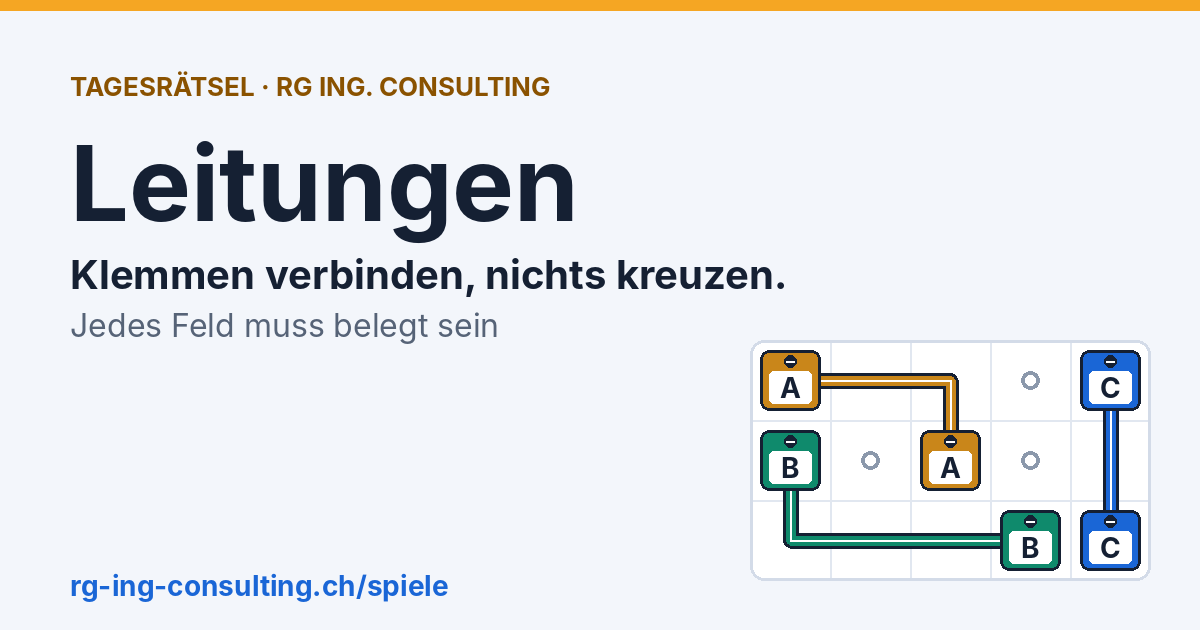
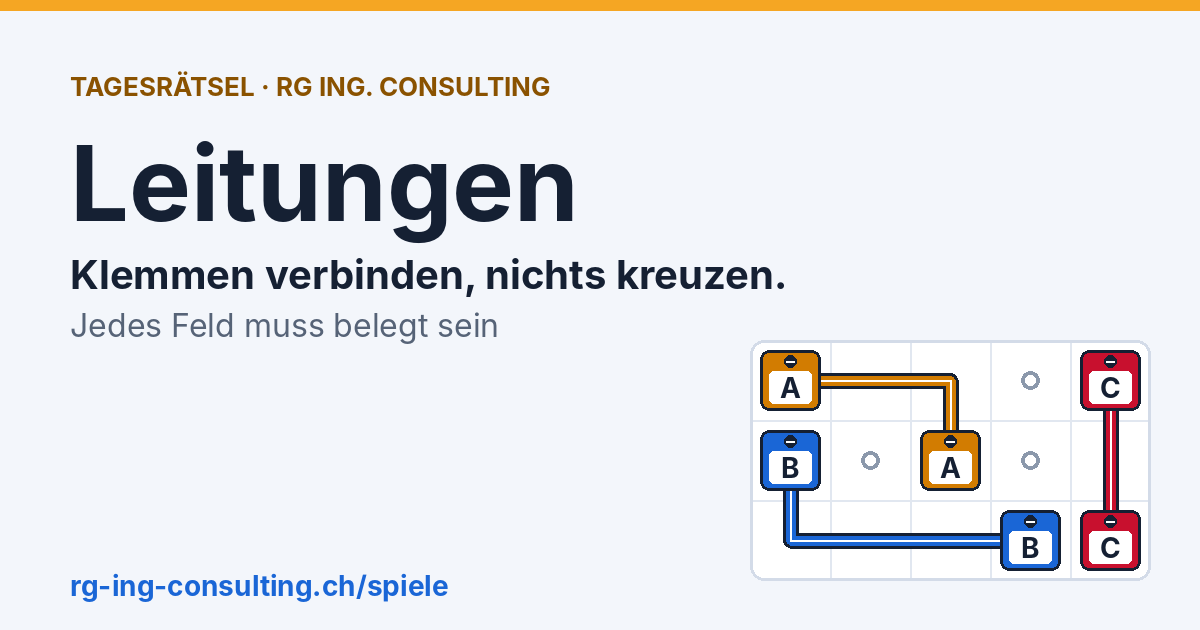
Rätsel: geprüfte Fassung des hellen Erscheinungsbilds (#6)
Feinschliff nach unabhängiger Prüfung: Kontraste, Farben bei Rot-Grün-Schwäche,
lesbare Beschriftung im Ergebnisfenster, keine springenden Knöpfe; Symbol und
Vorschaubild von Leitungen in den neuen Aderfarben.

Claude-Session: https://claude.ai/code/session_017yagkwgKSD2XjrwPwrEokH

Changed region(s): [[0.6167, 0.5429, 0.9558, 0.9048], [0.8942, 0.5429, 0.9558, 0.7841]]

diff --git a/raetsel/rasterweg.html b/raetsel/rasterweg.html
@@ -25,7 +25,7 @@
    und auf Hellgrün 4.6, Markenrand Nacht auf Weiss 16.3, Zahl auf Gold 8.1, Zahl Weiss auf Nacht 16.3, Rasterpunkte auf Weiss 6.1,
    Weiss auf Rot 5.5, Hinweis Grün auf Hellgrün 4.6, Hinweis Goldtext auf Hellgold 5.8. */
 #spiel{gap:12px}
-.rw-status{width:100%;display:grid;grid-template-columns:1fr auto 1fr;align-items:center;gap:8px;padding:0 2px;font-size:.95rem;font-variant-numeric:tabular-nums}
+.rw-status{width:100%;min-height:28px;display:grid;grid-template-columns:1fr auto 1fr;align-items:center;gap:8px;padding:0 2px;font-size:.95rem;font-variant-numeric:tabular-nums}   /* feste Höhe: das Brett springt beim Lösen nicht */
 .rw-status>span{white-space:nowrap}
 #rw-fortschritt{font-weight:800}
 #rw-naechste{display:inline-flex;align-items:center;gap:7px;color:var(--rg-leise);font-size:.84rem}
@@ -59,17 +59,18 @@
   font-weight:800;line-height:1;font-size:1.15rem;font-size:calc(34cqw / var(--n));font-variant-numeric:tabular-nums;pointer-events:none;
   box-shadow:var(--rg-schatten-klein);transition:background .15s,color .15s,border-color .15s,transform .15s}
 .rw-feld.ziel .rw-zahl{box-shadow:0 0 0 2.5px var(--rg-flaeche),0 0 0 5px var(--rg-nacht)}
+/* Die Ringe bleiben im eigenen Feld (Luft zwischen Marke und Feldrand = 0.5em der Marke), sonst schneidet der Brettrand sie ab. */
 .rw-feld.dran .rw-zahl{background:var(--rg-gold);border-width:3.5px;box-shadow:0 0 0 4px rgba(245,166,35,.4);animation:rw-puls 1.6s ease-in-out infinite}
-.rw-feld.dran.ziel .rw-zahl{box-shadow:0 0 0 2.5px var(--rg-flaeche),0 0 0 5px var(--rg-nacht),0 0 0 9px rgba(245,166,35,.4);animation-name:rw-puls-ziel}
+.rw-feld.dran.ziel .rw-zahl{box-shadow:0 0 0 2.5px var(--rg-flaeche),0 0 0 5px var(--rg-nacht),0 0 0 min(9px,.48em) rgba(245,166,35,.5);animation-name:rw-puls-ziel}
 .rw-feld.besucht .rw-zahl{background:var(--rg-nacht);color:#fff;box-shadow:0 0 0 2.5px #fff;transform:scale(1.04)}
 .rw-feld.besucht.ziel .rw-zahl{box-shadow:0 0 0 2.5px #fff,0 0 0 5px var(--rg-nacht),0 0 0 7.5px #fff}
 /* Abgelehnter Zug: roter Rahmen und rote Marke mit ✕ */
-.rw-feld.nein{animation:rw-ruck .34s;background:rgba(194,53,43,.14);box-shadow:inset 0 0 0 3px var(--rg-rot);border-radius:8px;z-index:1}
+.rw-feld.nein{animation:rw-ruck .34s;background:rgba(194,53,43,.14);box-shadow:inset 0 0 0 3px var(--rg-rot);border-radius:9px;z-index:1}
 .rw-feld.nein::after{content:"✕";position:absolute;top:3px;right:3px;display:grid;place-items:center;width:18px;height:18px;border-radius:50%;background:var(--rg-rot);color:#fff;
   font-size:.66rem;font-weight:800;line-height:1;box-shadow:0 0 0 1.5px #fff}
-@keyframes rw-puls{0%,100%{box-shadow:0 0 0 4px rgba(245,166,35,.4),0 0 0 4px rgba(245,166,35,.5)}60%{box-shadow:0 0 0 4px rgba(245,166,35,.4),0 0 0 11px rgba(245,166,35,0)}}
-@keyframes rw-puls-ziel{0%,100%{box-shadow:0 0 0 2.5px var(--rg-flaeche),0 0 0 5px var(--rg-nacht),0 0 0 9px rgba(245,166,35,.4),0 0 0 9px rgba(245,166,35,.5)}
-  60%{box-shadow:0 0 0 2.5px var(--rg-flaeche),0 0 0 5px var(--rg-nacht),0 0 0 9px rgba(245,166,35,.4),0 0 0 15px rgba(245,166,35,0)}}
+@keyframes rw-puls{0%,100%{box-shadow:0 0 0 4px rgba(245,166,35,.4),0 0 0 4px rgba(245,166,35,.5)}60%{box-shadow:0 0 0 4px rgba(245,166,35,.4),0 0 0 min(11px,.48em) rgba(245,166,35,0)}}
+@keyframes rw-puls-ziel{0%,100%{box-shadow:0 0 0 2.5px var(--rg-flaeche),0 0 0 5px var(--rg-nacht),0 0 0 min(9px,.48em) rgba(245,166,35,.85)}
+  60%{box-shadow:0 0 0 2.5px var(--rg-flaeche),0 0 0 5px var(--rg-nacht),0 0 0 min(9px,.48em) rgba(245,166,35,.35)}}
 @keyframes rw-ruck{0%,100%{transform:translateX(0)}25%{transform:translateX(-4px)}75%{transform:translateX(4px)}}
 
 /* Gelöst: Band, Felder, Rahmen und Balken in Grün */
@@ -84,13 +85,14 @@
 #spiel:has(.rw-brett.geloest) #rw-naechste{color:var(--rg-gruen);font-weight:800}
 @keyframes rw-glanz{0%{opacity:.75;stroke-dashoffset:1}80%{opacity:.75}100%{opacity:0;stroke-dashoffset:0}}
 
-.rw-hinweis{margin:0;min-height:2.7em;padding:4px 14px;border-radius:12px;display:grid;place-items:center;text-align:center;font-size:.88rem;color:var(--rg-leise);text-wrap:balance}
+/* Die Hinweiszeile hält immer Platz für zwei Zeilen (2 × 1.45em plus Innenabstand): die Knöpfe darunter bleiben an ihrem Ort. */
+.rw-hinweis{margin:0;min-height:calc(2.9em + 8px);padding:4px 14px;border-radius:12px;display:grid;place-items:center;text-align:center;font-size:.88rem;color:var(--rg-leise);text-wrap:balance}
 .rw-hinweis.gut{color:var(--rg-gruen);font-weight:700;background:var(--rg-gruen-hell)}
 .rw-hinweis.achtung{color:var(--rg-gold-text);font-weight:700;background:var(--rg-gold-hell);box-shadow:inset 0 0 0 1px rgba(245,166,35,.6)}
 .rw-knoepfe{width:100%;gap:10px}
 .rw-knoepfe .rg-knopf{flex:1 1 130px;max-width:230px;white-space:nowrap;touch-action:manipulation}
 .rw-knoepfe .rg-knopf[hidden]{display:none}
-@media(max-width:350px){.rw-status{font-size:.84rem}#rw-naechste{font-size:.76rem;gap:5px}#rw-naechste b{min-width:26px;height:26px}.rw-knoepfe .rg-knopf{padding:10px 8px;font-size:.84rem}}
+@media(max-width:350px){.rw-status{min-height:26px;font-size:.84rem}#rw-naechste{font-size:.76rem;gap:5px}#rw-naechste b{min-width:26px;height:26px}.rw-knoepfe .rg-knopf{padding:10px 8px;font-size:.84rem}}
 @media(max-height:620px){#spiel{gap:10px}.rw-hinweis{min-height:1.4em}}
 /* Meldung so breit wie ihr Text (höchstens 90vw), Kennzahlen im Ergebnisfenster einzeilig */
 .rg-toast{width:max-content}

diff --git a/raetsel/tageswort.html b/raetsel/tageswort.html
@@ -23,7 +23,8 @@
    Drei Zustände, immer Farbe UND Zeichen: Treffer ● (Blau gefüllt, weisser Buchstabe), Dabei ◐ (helles Gold mit Gold-Rahmen),
    Fehlt ○ (helle, zurückgenommene Fläche mit gedämpftem Buchstaben).
    Nachgerechnete Kontraste (WCAG): Weiss auf --rg-blau 5.4:1 · --rg-text auf --rg-gold-hell 14.9:1 · Zeichen ◐ (--rg-gold-text) auf --rg-gold-hell 5.8:1 ·
-   --rg-leise auf --rg-flaeche2 5.2:1 · --tw-rand auf Weiss 3.5:1 · --rg-blau-dunkel auf --rg-blau-hell 6.2:1 · --rg-blau auf --rg-flaeche2 4.6:1.
+   --rg-leise auf --rg-flaeche2 5.2:1 · --tw-rand auf Weiss 3.5:1 · --rg-blau-dunkel auf --rg-blau-hell 6.2:1 · --rg-blau-dunkel auf --tw-druck 5.5:1 ·
+   --rg-text auf --tw-druck 12.2:1 · --rg-text auf --rg-blau-hell 13.8:1 · --rg-leise auf --rg-bg (Zahl auf der Schiene) 5.6:1 · --rg-blau auf --rg-bg (Rahmen) 4.9:1.
    Der Gold-Rahmen (--rg-gold) ist Firmenfarbe und Schmuck (zu Weiss nur 2:1); den Zustand «Dabei» tragen Zeichen und Buchstabe. */
 :root{
   --tw-g:6px;                                   /* Abstand zwischen den Feldern */
@@ -69,12 +70,15 @@
 .tw-feld[data-z="dabei"]{background:var(--rg-gold-hell);border-color:var(--rg-gold);box-shadow:inset 0 0 0 1.5px var(--rg-gold),0 3px 8px rgba(245,166,35,.2)}
 .tw-feld[data-z="fehlt"]{background:var(--rg-flaeche2);border-color:var(--tw-fehlt-rand);color:var(--rg-leise)}
 
-/* Aufdecken: Feld kippt, die neue Fläche erscheint in der Mitte der Drehung */
+/* Aufdecken: Feld kippt, die neue Fläche erscheint in der Mitte der Drehung.
+   Bis 50 % bleibt das getippte Feld stehen, dann springen Fläche, Rahmen und Schrift auf den Zustand (step-start):
+   kein Überblenden, sonst stünde beim Treffer kurz ein grauer Buchstabe auf blassem Blau. */
 .tw-feld.dreh{animation:tw-dreh .44s ease-in-out both;animation-delay:calc(var(--i)*.13s)}
 .tw-feld.dreh .tw-z{animation:tw-zeichen .44s linear both;animation-delay:calc(var(--i)*.13s)}
 @keyframes tw-dreh{
   0%{transform:rotateX(0);background:var(--rg-flaeche);border-color:var(--rg-text);box-shadow:none;color:var(--rg-text)}
-  46%{transform:rotateX(90deg);background:var(--rg-flaeche);border-color:var(--rg-text);box-shadow:none;color:var(--rg-text)}
+  46%{transform:rotateX(90deg)}
+  50%{transform:rotateX(90deg);background:var(--rg-flaeche);border-color:var(--rg-text);box-shadow:none;color:var(--rg-text);animation-timing-function:step-start}
   54%{transform:rotateX(90deg)}
   100%{transform:rotateX(0)}
 }
@@ -105,7 +109,7 @@
   -webkit-tap-highlight-color:transparent;transition:background .12s,transform .06s}
 .tw-taste:not([data-z]):active,.tw-taste.gedrueckt:not([data-z]){background:var(--tw-druck)}
 .tw-taste:active,.tw-taste.gedrueckt{transform:scale(.93)}
-@media(hover:hover){.tw-taste:not([data-z]):hover{background:var(--rg-blau-hell)}}
+@media(hover:hover){.tw-taste:not([data-z]):hover{background:var(--rg-blau-hell)}.tw-taste.eingabe:hover{background:var(--tw-druck)}}
 .tw-taste.breit{grid-column:span 2;font-size:clamp(.66rem,2.9vw,.82rem);letter-spacing:.01em}
 .tw-taste.eingabe{background:var(--rg-blau-hell);border-color:var(--rg-blau);color:var(--rg-blau-dunkel);box-shadow:0 1.5px 0 var(--rg-blau),var(--rg-schatten-klein)}
 .tw-tzn{position:absolute;top:4px;right:4px;--p:8px;pointer-events:none}
@@ -115,7 +119,7 @@
 .tw-taste[data-z="fehlt"]{background:var(--rg-flaeche2);border-color:var(--tw-fehlt-rand);color:var(--rg-leise);box-shadow:none}
 
 /* ---------- Abschluss (ersetzt die Tastatur) ---------- */
-.tw-ende{width:100%;display:grid;justify-items:center;gap:12px;padding:20px 16px;border-radius:18px;background:var(--rg-flaeche);border:1px solid var(--rg-linie);
+.tw-ende{width:100%;display:grid;justify-items:center;gap:12px;padding:20px 16px;border-radius:var(--rg-radius);background:var(--rg-flaeche);border:1px solid var(--rg-linie);
   box-shadow:var(--rg-schatten);text-align:center}
 .tw-ende h2{margin:0;font-size:1.2rem;font-weight:800;letter-spacing:-.01em}
 .tw-ende p{margin:0;font-size:.88rem;color:var(--rg-leise)}
@@ -130,7 +134,9 @@
 .tw-vz{display:grid;grid-template-columns:1.1em 1fr;align-items:center;gap:8px;font-size:.82rem;font-variant-numeric:tabular-nums}
 .tw-vz::after{content:"";grid-column:2;grid-row:1;height:22px;border-radius:7px;background:var(--rg-bg)}   /* helle Schiene hinter dem Balken */
 .tw-vn{grid-column:1;grid-row:1;font-weight:800;color:var(--rg-leise);text-align:center}
-.tw-vb{grid-column:2;grid-row:1;position:relative;z-index:1;display:flex;justify-content:flex-end;align-items:center;min-width:2.1em;height:22px;padding:0 7px;border-radius:7px;
+/* Ein Balken ist nie schmaler als seine Beschriftung (max-content): Sonst ragt «1 · heute» bei einem kurzen Balken links hinaus,
+   weisse Schrift stünde auf weissem Grund und über der Zeilennummer. */
+.tw-vb{grid-column:2;grid-row:1;position:relative;z-index:1;display:flex;justify-content:flex-end;align-items:center;min-width:2.1em;min-width:max-content;height:22px;padding:0 8px;border-radius:7px;
   background:var(--rg-blau-hell);border:1.5px solid var(--rg-blau);color:var(--rg-blau-dunkel);font-weight:800;white-space:nowrap}
 .tw-vb[style*="width:0%"]{background:transparent;border-color:transparent;color:var(--rg-leise)}   /* noch nie: nur die Zahl auf der Schiene */
 .tw-vz.heute .tw-vb{background:var(--rg-blau);border-color:var(--rg-blau);color:#fff}

diff --git a/raetsel/index.html b/raetsel/index.html
@@ -76,7 +76,7 @@
     tageswort: '<svg viewBox="0 0 64 64" aria-hidden="true"><g font-family="Arial,sans-serif" font-size="13" font-weight="800" text-anchor="middle"><rect x="7" y="24" width="15" height="16" rx="3" fill="#1a73e8"/><text x="14.5" y="37" fill="#fff">W</text><rect x="25.5" y="25" width="13" height="14" rx="3" fill="none" stroke="#f5a623" stroke-width="2"/><text x="32" y="37" fill="#f5a623">O</text><rect x="42" y="24" width="15" height="16" rx="3" fill="#22304a"/><text x="49.5" y="37" fill="#93a3b8">R</text></g></svg>',
     dazwischen: '<svg viewBox="0 0 64 64" aria-hidden="true"><g fill="none" stroke-linecap="round" stroke-width="4"><path d="M12 18h40" stroke="#93a3b8"/><path d="M20 32h24" stroke="#f5a623"/><path d="M12 46h40" stroke="#93a3b8"/></g><path d="M32 22l4 5h-8zM32 42l4-5h-8z" fill="#1a73e8"/></svg>',
     rasterweg: '<svg viewBox="0 0 64 64" aria-hidden="true"><path d="M14 14h36v12H14v12h36v12H14" fill="none" stroke="#1a73e8" stroke-width="5" stroke-linecap="round" stroke-linejoin="round"/><circle cx="14" cy="14" r="6" fill="#f5a623"/><circle cx="14" cy="50" r="6" fill="#00c9a7"/></svg>',
-    leitungen: '<svg viewBox="0 0 64 64" aria-hidden="true"><g fill="none" stroke-width="3" stroke-linejoin="round"><path d="M12 14h24v18" stroke="#e3a83b"/><path d="M12 50V30h12v20h28" stroke="#46b08a"/><path d="M52 14v20" stroke="#5a9fe0"/><path d="M22 22a2 2 0 1 0 4 0a2 2 0 1 0-4 0M42 25a2 2 0 1 0 4 0a2 2 0 1 0-4 0" stroke="#7389ad" stroke-width="1.6"/></g><g stroke="#0f1724" stroke-width="1.2"><rect x="5.5" y="7.5" width="13" height="13" rx="2.5" fill="#e3a83b"/><rect x="29.5" y="25.5" width="13" height="13" rx="2.5" fill="#e3a83b"/><rect x="5.5" y="43.5" width="13" height="13" rx="2.5" fill="#46b08a"/><rect x="45.5" y="43.5" width="13" height="13" rx="2.5" fill="#46b08a"/><rect x="45.5" y="7.5" width="13" height="13" rx="2.5" fill="#5a9fe0"/><rect x="45.5" y="27.5" width="13" height="13" rx="2.5" fill="#5a9fe0"/></g><path d="M8 12.5h8v5.5h-8zM32 30.5h8v5.5h-8zM8 48.5h8v5.5h-8zM48 48.5h8v5.5h-8zM48 12.5h8v5.5h-8zM48 32.5h8v5.5h-8z" fill="#f4f1e6"/><path d="M10 10h4M34 28h4M10 46h4M50 46h4M50 10h4M50 30h4" fill="none" stroke="#0f1724" stroke-opacity=".6" stroke-width="1.2" stroke-linecap="round"/></svg>'
+    leitungen: '<svg viewBox="0 0 64 64" aria-hidden="true"><g fill="none" stroke-width="3" stroke-linejoin="round"><path d="M12 14h24v18" stroke="#d27c01"/><path d="M12 50V30h12v20h28" stroke="#27a16a"/><path d="M52 14v20" stroke="#1a66d6"/><path d="M22 22a2 2 0 1 0 4 0a2 2 0 1 0-4 0M42 25a2 2 0 1 0 4 0a2 2 0 1 0-4 0" stroke="#7389ad" stroke-width="1.6"/></g><g stroke="#0f1724" stroke-width="1.2"><rect x="5.5" y="7.5" width="13" height="13" rx="2.5" fill="#d27c01"/><rect x="29.5" y="25.5" width="13" height="13" rx="2.5" fill="#d27c01"/><rect x="5.5" y="43.5" width="13" height="13" rx="2.5" fill="#27a16a"/><rect x="45.5" y="43.5" width="13" height="13" rx="2.5" fill="#27a16a"/><rect x="45.5" y="7.5" width="13" height="13" rx="2.5" fill="#1a66d6"/><rect x="45.5" y="27.5" width="13" height="13" rx="2.5" fill="#1a66d6"/></g><path d="M8 12.5h8v5.5h-8zM32 30.5h8v5.5h-8zM8 48.5h8v5.5h-8zM48 48.5h8v5.5h-8zM48 12.5h8v5.5h-8zM48 32.5h8v5.5h-8z" fill="#f4f1e6"/><path d="M10 10h4M34 28h4M10 46h4M50 46h4M50 10h4M50 30h4" fill="none" stroke="#0f1724" stroke-opacity=".6" stroke-width="1.2" stroke-linecap="round"/></svg>'
   };
   var tage = ['Sonntag', 'Montag', 'Dienstag', 'Mittwoch', 'Donnerstag', 'Freitag', 'Samstag'];
   document.getElementById('spenden').href = RG.SPENDEN_URL;

diff --git a/raetsel/leitungen.html b/raetsel/leitungen.html
@@ -27,7 +27,7 @@
   --lt-kontur:#152033;           /* Kontur von Adern und Klemmen */
   --lt-raster:#d0d9e7;           /* Feldlinien */
   --lt-raster-fein:#e9eef6;      /* feines Zwischenraster */
-  --lt-kreuz:#8fa0b9;            /* Passkreuze an den Feldecken */
+  --lt-kreuz:#8292ad;            /* Passkreuze an den Feldecken, 3.1:1 zum Blatt */
   --lt-auge:#6b7c98;             /* Lötauge in freien Feldern, 4.2:1 zum Blatt */
   --lt-metall:#dbe2ec;           /* Stift der Aderendhülse */
 }
@@ -69,7 +69,7 @@
 .lt-ader-kern{stroke:#fff;stroke-width:2.6;opacity:.7}
 .lt-ader.aktiv .lt-ader-rand{stroke-width:22.5}
 .lt-ader.aktiv .lt-ader-kern{opacity:1}
-.lt-geist{stroke-width:5.5;stroke-dasharray:1 13}
+.lt-geist{stroke-width:7;stroke-dasharray:1 13}
 /* offenes Ende: Aderendhülse in Zugrichtung */
 .lt-ende-stift{fill:var(--lt-metall);stroke:var(--lt-kontur);stroke-width:2.5}
 .lt-ende-kragen{stroke:var(--lt-kontur);stroke-width:2.5}
@@ -96,7 +96,7 @@
 .lt-brett.frisch .lt-ader-kern{animation:lt-strom .8s ease-out}
 @keyframes lt-puls{0%{transform:scale(1)}45%{transform:scale(1.12)}100%{transform:scale(1)}}
 @keyframes lt-strom{0%{stroke-width:2.6;opacity:.7}40%{stroke-width:8;opacity:1}100%{stroke-width:2.6;opacity:1}}
-@keyframes lt-blink{0%,100%{opacity:1}50%{opacity:.45}}
+@keyframes lt-blink{0%,100%{opacity:1}50%{opacity:.7}}   /* auch am tiefsten Punkt bleibt die Messmarke über 3:1 zum Blatt */
 
 .lt-klemme{position:absolute;appearance:none;-webkit-appearance:none;margin:0;padding:0;border:0;border-radius:18%;background:transparent;color:transparent;cursor:pointer;touch-action:none}
 .lt-klemme:focus-visible{outline:3px solid var(--rg-blau);outline-offset:-2px}
@@ -155,8 +155,9 @@
 
   /* Kräftige Aderfarben für das helle Blatt, frei gewählt (keine Aussage über genormte Leiterfarben). Die Zuordnung trägt immer der Buchstabe.
      Jede Farbe hat mindestens 3:1 zum Blatt. Helligkeit und Blau-Gelb-Anteil sind so gestaffelt, dass sich alle acht
-     auch bei Rot-Grün-Schwäche voneinander abheben (Rot dunkler als Grün, Violett satter als Blau, Pink dunkler als Hellblau). */
-  var FARBEN = ['#d27c01', '#1a66d6', '#c8102e', '#27a16a', '#610af3', '#049cc8', '#bc0281', '#222d3d'];
+     auch bei Rot-Grün-Schwäche voneinander abheben (Rot dunkler als Grün, Pink dunkler als Hellblau). Das Violett ist ein
+     dunkles Indigo: mit Rot-Grün-Schwäche erscheint es wie das Blau als Blauton, der Helligkeitsabstand hält die beiden auseinander. */
+  var FARBEN = ['#d27c01', '#1a66d6', '#c8102e', '#27a16a', '#3c00e0', '#049cc8', '#bc0281', '#222d3d'];
   var BUCHSTABEN = 'ABCDEFGH';
 
   /* ---------- Zeichenhelfer (Brett und Beispielbild nutzen dieselben Bausteine) ---------- */

diff --git a/raetsel/dazwischen.html b/raetsel/dazwischen.html
@@ -112,6 +112,11 @@
 .dz-taste.los:focus-visible::before{outline-color:var(--rg-text)}
 .dz-taste.fern{color:var(--rg-leise);font-weight:600}
 .dz-taste.fern::before{background:transparent;box-shadow:none;border:1.5px dashed var(--dz-rand)}
+/* Auch blasse Tasten antworten auf Maus und Finger; der gestrichelte Rahmen bleibt */
+@media (hover:hover){
+  .dz-taste.fern:hover::before{background:var(--rg-blau-hell)}
+}
+.dz-taste.fern:active::before{background:var(--rg-blau-hell);border-color:var(--rg-blau)}
 
 /* Schluss */
 .dz-schluss{display:grid;justify-items:center;gap:10px;padding:18px 16px;border:1px solid var(--rg-linie);border-radius:var(--rg-radius);background:var(--rg-flaeche);text-align:center;box-shadow:var(--rg-schatten)}
@@ -153,6 +158,16 @@
   .dz-abc span{padding:3px 0}
   .dz-bahn{height:16px}
   #spiel{--dz-g:clamp(32px,9.6vw,38px);--dz-e:clamp(42px,12.6vw,50px)}
+}
+/* Sehr niedrige Bildschirme (Handy mit eingeblendeten Leisten des Browsers): enger, damit auch die unterste Tastenreihe ohne Scrollen sichtbar ist */
+@media (max-height:600px){
+  #spiel{--dz-th:44px;gap:6px;padding-top:2px}
+  .dz-leiste{gap:4px}
+  .dz-luecke{padding:2px 10px}
+  .dz-abc span{padding:2px 0}
+  .dz-bahn{height:14px}
+  .dz-grenze{padding:6px 10px;gap:4px}
+  .dz-mitte{padding:6px 10px;gap:5px}
 }
 @media (max-width:360px){
   .dz-kopf{font-size:.76rem;gap:6px}
